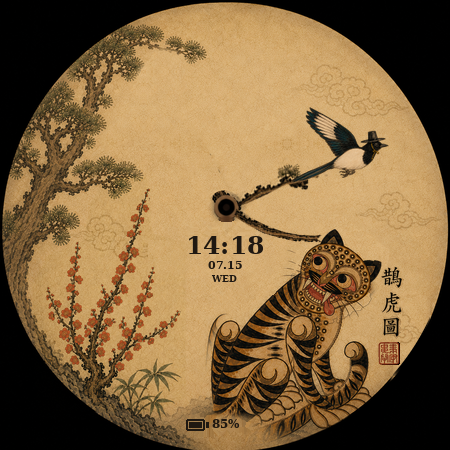
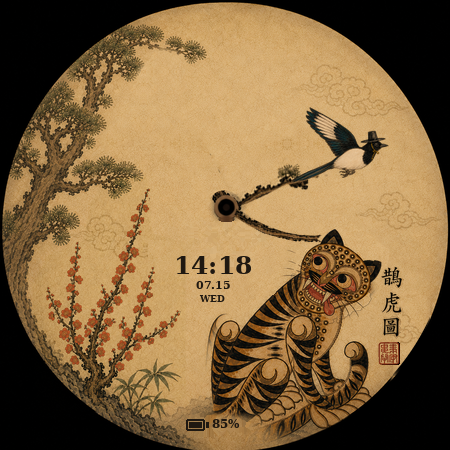
fix: separate V4 readout from minute hand

Changed region(s): [[0.3733, 0.5289, 0.5911, 0.6844]]

diff --git a/prototype/hojakdo_v4/build_v4_assets.py b/prototype/hojakdo_v4/build_v4_assets.py
@@ -33,6 +33,8 @@ HOUR_ANCHOR = (302.0, 148.0)
 SMALL_FLIGHT_WIDTH = 100
 FRAME_DURATION_MS = 125
 FPS = 1000 / FRAME_DURATION_MS
+READOUT_CENTER_X = 213
+READOUT_SHIFT = (-12, 20)
 
 
 @dataclass(frozen=True)
@@ -641,10 +643,11 @@ def _draw_centered(
     text: str,
     font: ImageFont.FreeTypeFont,
     fill: tuple[int, int, int, int],
+    center_x: float = FACE_SIZE / 2,
 ) -> None:
     box = draw.textbbox((0, 0), text, font=font)
     width = box[2] - box[0]
-    draw.text(((FACE_SIZE - width) / 2, y), text, font=font, fill=fill)
+    draw.text((center_x - width / 2, y), text, font=font, fill=fill)
 
 
 def _build_battery_icon() -> None:
@@ -696,9 +699,13 @@ def _render_preview(
 
     draw = ImageDraw.Draw(face)
     ink = (31, 24, 17, 255)
-    _draw_centered(draw, 230, "14:18", _font(25, bold=True), ink)
-    _draw_centered(draw, 258, "07.15", _font(11, bold=True), ink)
-    _draw_centered(draw, 273, "WED", _font(9, bold=True), ink)
+    _draw_centered(
+        draw, 250, "14:18", _font(25, bold=True), ink, READOUT_CENTER_X
+    )
+    _draw_centered(
+        draw, 278, "07.15", _font(11, bold=True), ink, READOUT_CENTER_X
+    )
+    _draw_centered(draw, 293, "WED", _font(9, bold=True), ink, READOUT_CENTER_X)
     battery_font = _font(12, bold=True)
     battery_text = "85%"
     battery_box = draw.textbbox((0, 0), battery_text, font=battery_font)
@@ -888,7 +895,9 @@ def build() -> dict[str, object]:
         },
         "titleSealShiftLogical": [-20, -3],
         "readoutQuietZone": {
-            "boundsLogical": [175, 220, 275, 295],
+            "sourceCleanupBoundsLogical": [175, 220, 275, 295],
+            "liveTextShiftLogical": list(READOUT_SHIFT),
+            "liveTextCenterXLogical": READOUT_CENTER_X,
             "removes": ["baked_time", "baked_date", "baked_weekday", "cloud_line"],
             "liveTextLayer": "topmost",
         },

diff --git a/prototype/hojakdo_v4/generate_watchface.py b/prototype/hojakdo_v4/generate_watchface.py
@@ -187,7 +187,7 @@ def _hand_group(
 
 
 def _live_text() -> str:
-    time_part = '''<PartText name="live_time" x="183" y="226" width="84" height="31">
+    time_part = '''<PartText name="live_time" x="171" y="246" width="84" height="31">
     <Text align="CENTER" verticalAlign="CENTER">
         <Font family="SYNC_TO_DEVICE" size="25" color="#211811" weight="BOLD" letterSpacing="0.03">
             <Template>%s:%s
@@ -198,7 +198,7 @@ def _live_text() -> str:
     </Text>
     <Variant mode="AMBIENT" target="alpha" value="220" />
 </PartText>'''
-    date_part = '''<PartText name="live_date" x="198" y="255" width="54" height="15">
+    date_part = '''<PartText name="live_date" x="186" y="275" width="54" height="15">
     <Text align="CENTER" verticalAlign="CENTER">
         <Font family="SYNC_TO_DEVICE" size="11" color="#211811" weight="BOLD">
             <Template>%s.%s
@@ -209,7 +209,7 @@ def _live_text() -> str:
     </Text>
     <Variant mode="AMBIENT" target="alpha" value="220" />
 </PartText>'''
-    weekday_part = '''<PartText name="live_weekday" x="202" y="271" width="46" height="13">
+    weekday_part = '''<PartText name="live_weekday" x="190" y="291" width="46" height="13">
     <Text align="CENTER" verticalAlign="CENTER">
         <Font family="SYNC_TO_DEVICE" size="9" color="#211811" weight="BOLD">
             <Upper><Template>%s<Parameter expression="[DAY_OF_WEEK_S]" /></Template></Upper>
@@ -408,7 +408,6 @@ def generate() -> str:
         name="tiger_pupils",
         ambient_alpha=155,
     )
-
     scene_parts = [
         background,
         _condition(plum_expressions),

diff --git a/prototype/hojakdo_v4/test_v4_assets.py b/prototype/hojakdo_v4/test_v4_assets.py
@@ -173,6 +173,12 @@ class HojakdoV4AssetsTest(unittest.TestCase):
             'name="tiger_pupils"',
         ):
             self.assertGreater(live_index, xml.index(decorative_part))
+        live_parts = {
+            part.attrib["name"]: part.attrib for part in self.root.findall(".//PartText")
+        }
+        self.assertEqual(("171", "246"), (live_parts["live_time"]["x"], live_parts["live_time"]["y"]))
+        self.assertEqual(("186", "275"), (live_parts["live_date"]["x"], live_parts["live_date"]["y"]))
+        self.assertEqual(("190", "291"), (live_parts["live_weekday"]["x"], live_parts["live_weekday"]["y"]))
 
     def test_all_wff_image_resources_exist_and_names_are_android_safe(self) -> None:
         available = {path.stem for path in DRAWABLE_DIR.glob("*.png")}
@@ -236,7 +242,8 @@ class HojakdoV4AssetsTest(unittest.TestCase):
                 self.assertEqual(expected_size, image.size)
 
         quiet_zone = self.manifest["readoutQuietZone"]
-        self.assertEqual([175, 220, 275, 295], quiet_zone["boundsLogical"])
+        self.assertEqual([-12, 20], quiet_zone["liveTextShiftLogical"])
+        self.assertEqual(213, quiet_zone["liveTextCenterXLogical"])
         with Image.open(DRAWABLE_DIR / "hojakdo_v4_background.png") as source:
             background = np.asarray(source.convert("RGB"), dtype=np.float32)
         luma = (

diff --git a/docs/animation-blueprint.md b/docs/animation-blueprint.md
@@ -21,7 +21,7 @@
 - 세부 행동 예약
 - 호랑이 반응 예약
 
-V4에서 두 까치의 정적 자세 6종, 전경 가림막 3종, 16개 AGIF와 원본 프레임·메타데이터를 완성했다. 배경에 구워져 있던 중앙 표시 잔상·구름선과 배터리를 제거하고 실시간 WFF 텍스트로 교체했으며, 중앙 표시는 모든 장식 레이어보다 위에 둔다. 43분 무상태 시간표·배터리 매화·시침·분침 캐리어·AOD까지 `watchface.xml`에 연결했고 49개 자동 테스트가 통과한다. APK 조립과 Wear OS 에뮬레이터·실기기 렌더 검증은 Android SDK가 있는 환경에서 수행한다.
+V4에서 두 까치의 정적 자세 6종, 전경 가림막 3종, 16개 AGIF와 원본 프레임·메타데이터를 완성했다. 배경에 구워져 있던 중앙 표시 잔상·구름선과 배터리를 제거하고 실시간 WFF 텍스트로 교체했으며, 중앙 표시는 모든 장식 레이어보다 위에 두고 기준점을 `(-12px, +20px)` 이동해 분침 가지와 분리한다. 43분 무상태 시간표·배터리 매화·시침·분침 캐리어·AOD까지 `watchface.xml`에 연결했고 49개 자동 테스트가 통과한다. APK 조립과 Wear OS 에뮬레이터·실기기 렌더 검증은 Android SDK가 있는 환경에서 수행한다.
 
 ## 2. 절대 타임라인
 

diff --git a/prototype/hojakdo_v4/README.md b/prototype/hojakdo_v4/README.md
@@ -10,7 +10,7 @@
 - `鵲虎圖`·도장: 왼쪽 20px, 위 3px 이동
 - 매화: 배터리 5단계 정적 교체
 - 중앙 표시: 실시간 `HH:mm`, `MM.DD`, 대문자 요일
-- 중앙 표시 배경: 구형 정적 글자·구름선을 제거한 한지 여백, 모든 장식보다 위에 렌더
+- 중앙 표시: 구형 글자·구름선 제거 후 기준점을 `(-12px, +20px)` 이동해 회전 바늘과 분리
 - 하단 표시: 실시간 배터리 아이콘과 퍼센트
 
 ## 산출물
